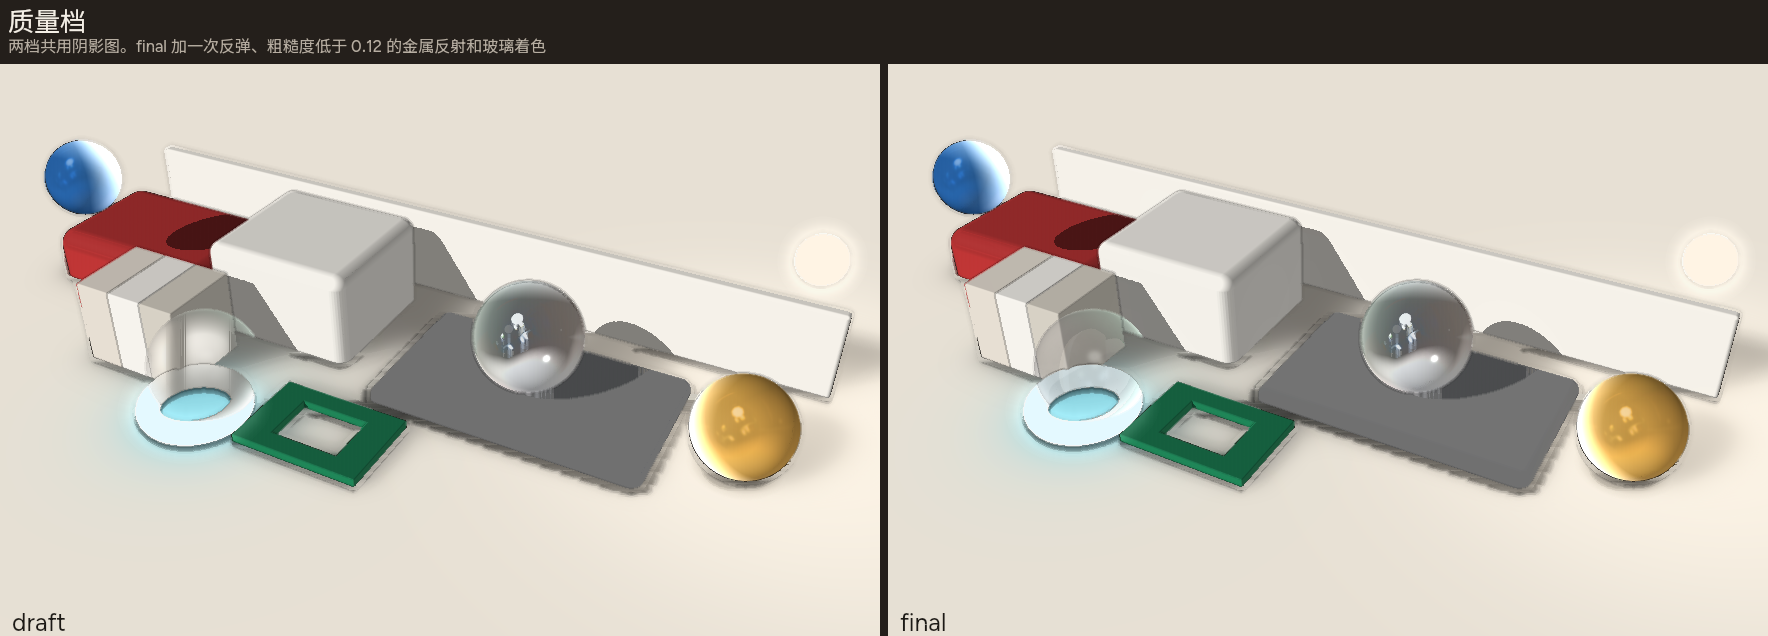
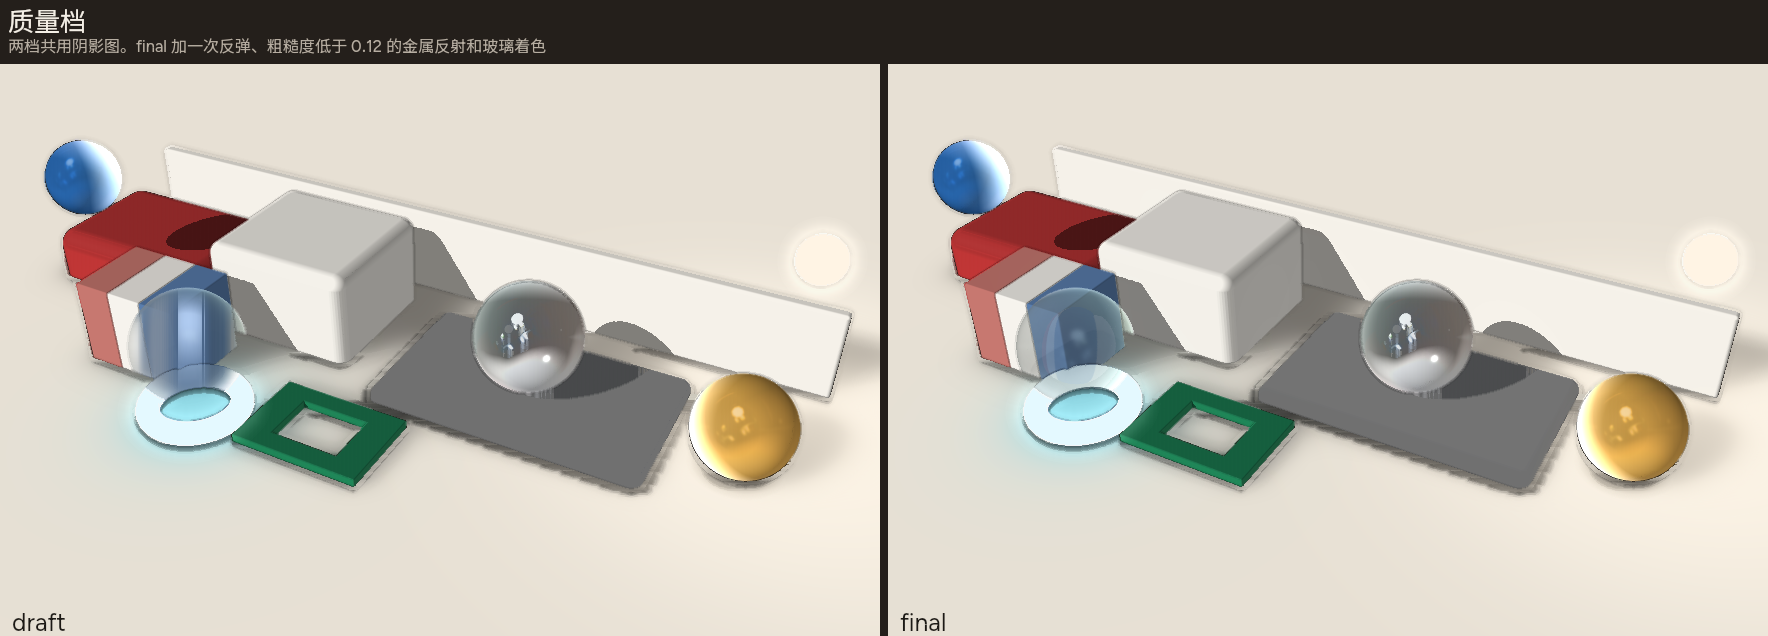
QUALITY-6 rest5h: clearer mint quality glass + pastel stripes
Keep glass off RGB stripe stack and white-box specular; restore pastel
stripe chroma so refraction reads clear instead of muddy grey (rest5g B).

Changed region(s): [[0.0311, 0.3884, 0.1555, 0.6572], [0.5288, 0.3884, 0.6533, 0.6274]]

diff --git a/scripts/gallery-3d.ts b/scripts/gallery-3d.ts
@@ -409,9 +409,10 @@ function buildPlates(): { sheet: string; title: string; cols: number; cells: Pla
     name: `3d-shade-${name}`,
     source: cell(name, withGoldSphere(bench(BENCH_CAMERA, `shading="${name}"`)), BENCH_W, BENCH_H, '#4a453e'),
   }))
-  // Rest5f/g: clearer glass. Rest5g quality: A still saw RGB vertical streaks —
-  // slide glass off the stripe stack and mute the stripes to near-cream so
-  // refraction cannot paint red/blue bars into the sphere.
+  // Rest5f–h: clearer glass. Rest5g slid glass off RGB stripes (A quality 8) but
+  // cream-muted stripes + glass over empty floor made B read muddy grey (6).
+  // Rest5h: seat glass on the white box (clear refraction), restore pastel
+  // stripes for draft/final chroma without putting saturated bars through glass.
   const CLEAR_GLASS =
     '<sphere id="glass" cx="250" cy="250" r="52" z="52" fill="#f4f8f6cc" material="glass 0.04" />'
   const BENCH_GLASS =
@@ -421,15 +422,18 @@ function buildPlates(): { sheet: string; title: string; cols: number; cells: Pla
     withClearGlass(body)
       .replace(
         '<sphere id="glass" cx="250" cy="250" r="52" z="52" fill="#f4f8f6cc" material="glass 0.04" />',
-        '<sphere id="glass" cx="360" cy="290" r="48" z="48" fill="#f7faf8d0" material="glass 0.03" />',
+        // Keep off the white-box specular (cy155 blew draft overexposure) and
+        // off the saturated stripe stack. Clearer mint + pastel stripes so the
+        // sphere refracts color instead of reading muddy grey over empty floor.
+        '<sphere id="glass" cx="330" cy="275" r="50" z="50" fill="#c8e8dca0" material="glass 0.03" />',
       )
       .replace(
         '<rect id="stripe-red" x="210" y="200" width="36" height="78" depth="160" fill="#e23b2f" />',
-        '<rect id="stripe-red" x="210" y="200" width="36" height="78" depth="160" fill="#e8e0d4" />',
+        '<rect id="stripe-red" x="210" y="200" width="36" height="78" depth="160" fill="#c87870" />',
       )
       .replace(
         '<rect id="stripe-blue" x="282" y="200" width="36" height="78" depth="160" fill="#2a6fbe" />',
-        '<rect id="stripe-blue" x="282" y="200" width="36" height="78" depth="160" fill="#d8d2c6" />',
+        '<rect id="stripe-blue" x="282" y="200" width="36" height="78" depth="160" fill="#5a7eae" />',
       )
   const quality = (['draft', 'final'] as const).map((name) => ({
     name: `3d-quality-${name}`,
